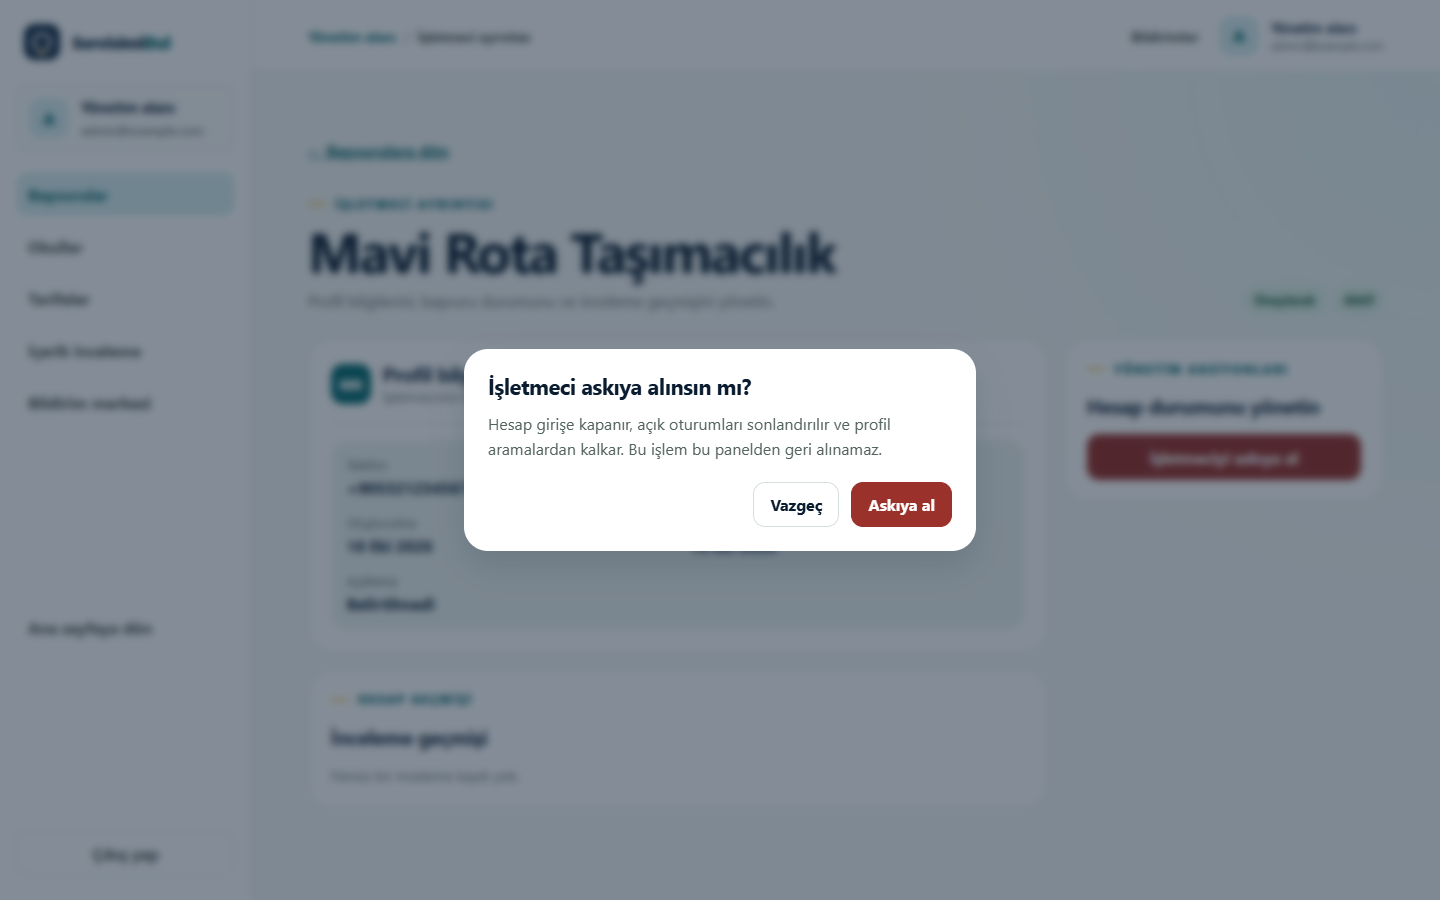
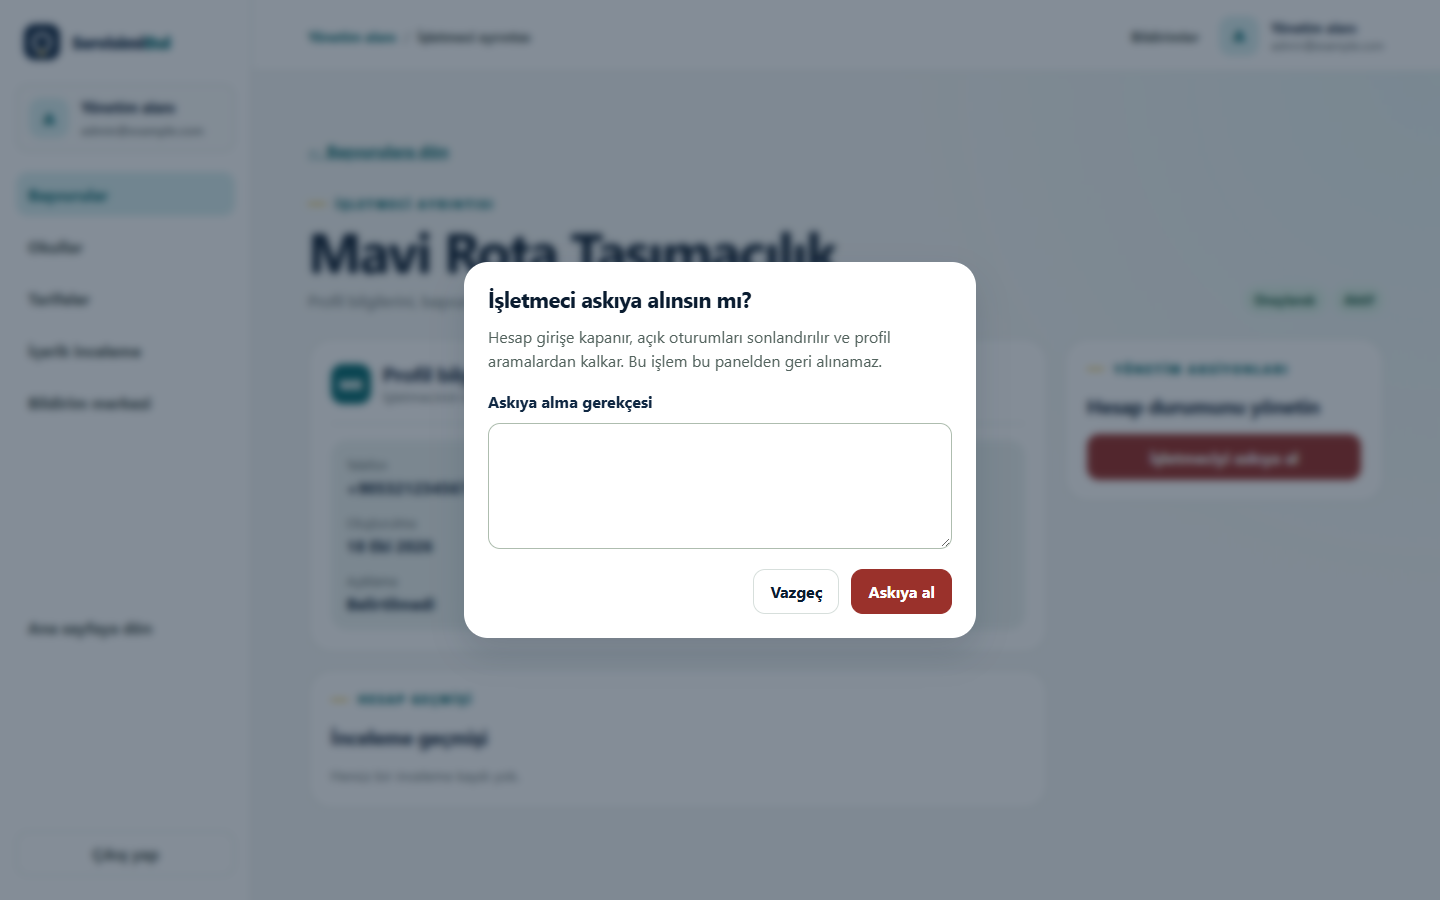
feat(admin): require a stored reason to suspend an operator
Record the reason, administrator, and time as a SUSPENDED review row
(D056, Flyway V17), collect it in the M02 modal, and show it in the review
history. Moderation-driven suspensions store the moderation reason.

Changed region(s): [[0.3125, 0.28, 0.6875, 0.5289], [0.3125, 0.5289, 0.6875, 0.7156]]

diff --git a/servisimibul-frontend/src/features/admin/AdminApplicationsPage.tsx b/servisimibul-frontend/src/features/admin/AdminApplicationsPage.tsx
@@ -43,6 +43,15 @@ const statusTones: Record<
   APPROVED: 'success',
 }
 
+const reviewDecisionLabels: Record<
+  ApplicationDetail['reviewHistory'][number]['decision'],
+  string
+> = {
+  APPROVED: 'Onaylandı',
+  CHANGES_REQUESTED: 'Düzeltme istendi',
+  SUSPENDED: 'Askıya alındı',
+}
+
 const statusFilters: Array<{
   label: string
   value: ApplicationStatus | undefined
@@ -270,6 +279,8 @@ export function AdminApplicationDetailPage() {
   const [attempt, setAttempt] = useState(0)
   const [reason, setReason] = useState('')
   const [reasonError, setReasonError] = useState<string>()
+  const [suspensionReason, setSuspensionReason] = useState('')
+  const [suspensionReasonError, setSuspensionReasonError] = useState<string>()
   const [confirmation, setConfirmation] = useState<
     'approve' | 'revision' | 'suspend'
   >()
@@ -320,8 +331,13 @@ export function AdminApplicationDetailPage() {
       )
       if (sent) setReason('')
     } else if (confirmation === 'suspend') {
+      const trimmedReason = suspensionReason.trim()
+      if (!trimmedReason) {
+        setSuspensionReasonError('Askıya alma gerekçesi zorunludur.')
+        return
+      }
       await runAction(
-        () => suspendOperator(applicationId),
+        () => suspendOperator(applicationId, trimmedReason),
         'İşletmeci askıya alındı.',
       )
     }
@@ -483,11 +499,7 @@ export function AdminApplicationDetailPage() {
                       {review.decision === 'APPROVED' ? '✓' : '!'}
                     </span>
                     <div>
-                      <strong>
-                        {review.decision === 'APPROVED'
-                          ? 'Onaylandı'
-                          : 'Düzeltme istendi'}
-                      </strong>
+                      <strong>{reviewDecisionLabels[review.decision]}</strong>
                       {review.reason && <p>{review.reason}</p>}
                       <small>{formatDate(review.reviewedAt)}</small>
                     </div>
@@ -609,6 +621,21 @@ export function AdminApplicationDetailPage() {
             Hesap girişe kapanır, açık oturumları sonlandırılır ve profil
             aramalardan kalkar. Bu işlem bu panelden geri alınamaz.
           </p>
+          <FormField
+            error={suspensionReasonError}
+            htmlFor="suspension-reason"
+            label="Askıya alma gerekçesi"
+          >
+            <textarea
+              disabled={pending}
+              onChange={(event) => {
+                setSuspensionReason(event.target.value)
+                setSuspensionReasonError(undefined)
+              }}
+              rows={4}
+              value={suspensionReason}
+            />
+          </FormField>
         </AdminConfirmDialog>
       )}
     </section>

diff --git a/servisimibul-frontend/src/features/admin/admin-flow.test.tsx b/servisimibul-frontend/src/features/admin/admin-flow.test.tsx
@@ -129,7 +129,7 @@ describe('admin workspace flows', () => {
 
   it('confirms approval and suspension actions', async () => {
     let approved = false
-    let suspended = false
+    let suspensionBody: unknown
     server.use(
       authHandler('ADMIN'),
       csrfHandler(),
@@ -140,8 +140,8 @@ describe('admin workspace flows', () => {
         approved = true
         return HttpResponse.json(applicationDetail('APPROVED'))
       }),
-      http.post('/api/v1/admin/operators/:id/suspend', () => {
-        suspended = true
+      http.post('/api/v1/admin/operators/:id/suspend', async ({ request }) => {
+        suspensionBody = await request.json()
         return HttpResponse.json(applicationDetail('APPROVED', false))
       }),
     )
@@ -163,16 +163,26 @@ describe('admin workspace flows', () => {
     })
     fireEvent.click(within(dialog).getByRole('button', { name: 'Vazgeç' }))
     expect(screen.queryByRole('dialog')).not.toBeInTheDocument()
-    expect(suspended).toBe(false)
+    expect(suspensionBody).toBeUndefined()
 
     fireEvent.click(
       screen.getByRole('button', { name: 'İşletmeciyi askıya al' }),
     )
     fireEvent.click(screen.getByRole('button', { name: 'Askıya al' }))
     expect(
+      screen.getByRole('textbox', { name: /Askıya alma gerekçesi/ }),
+    ).toHaveAccessibleDescription('Askıya alma gerekçesi zorunludur.')
+    expect(suspensionBody).toBeUndefined()
+
+    fireEvent.change(
+      screen.getByRole('textbox', { name: /Askıya alma gerekçesi/ }),
+      { target: { value: '  Şikayet incelemesi  ' } },
+    )
+    fireEvent.click(screen.getByRole('button', { name: 'Askıya al' }))
+    expect(
       await screen.findByText('İşletmeci askıya alındı.'),
     ).toBeInTheDocument()
-    expect(suspended).toBe(true)
+    expect(suspensionBody).toEqual({ reason: 'Şikayet incelemesi' })
     expect(
       screen.queryByRole('button', { name: 'İşletmeciyi askıya al' }),
     ).not.toBeInTheDocument()
@@ -200,6 +210,10 @@ describe('admin workspace flows', () => {
     renderRoute('/admin/applications/99dd588e-2b72-419e-aa29-28fb97f8ad20')
     fireEvent.click(
       await screen.findByRole('button', { name: 'İşletmeciyi askıya al' }),
+    )
+    fireEvent.change(
+      screen.getByRole('textbox', { name: /Askıya alma gerekçesi/ }),
+      { target: { value: 'Şikayet incelemesi' } },
     )
     fireEvent.click(screen.getByRole('button', { name: 'Askıya al' }))
 

diff --git a/servisimibul-frontend/e2e/ui-fidelity-14-admin-operators.spec.ts b/servisimibul-frontend/e2e/ui-fidelity-14-admin-operators.spec.ts
@@ -58,15 +58,23 @@ test('M02 suspension uses an accessible modal with real consequences', async ({
   await assertAccessibleAndContained(page)
   await capture(page, 'state-M02-suspend-confirmation', 'desktop')
 
+  await dialog.getByRole('button', { name: 'Askıya al', exact: true }).click()
+  await expect(
+    dialog.getByText('Askıya alma gerekçesi zorunludur.'),
+  ).toBeVisible()
+  expect(state.active).toBe(true)
+
   await page.keyboard.press('Escape')
   await expect(dialog).toHaveCount(0)
   await expect(trigger).toBeFocused()
   expect(state.active).toBe(true)
 
   await trigger.click()
+  await dialog.getByLabel('Askıya alma gerekçesi').fill('Şikayet incelemesi')
   await dialog.getByRole('button', { name: 'Askıya al', exact: true }).click()
   await expect(page.getByText('İşletmeci askıya alındı.')).toBeVisible()
   expect(state.active).toBe(false)
+  await expect(page.getByText('Şikayet incelemesi')).toBeVisible()
   await expect(trigger).toHaveCount(0)
   await assertAccessibleAndContained(page)
 })

diff --git a/servisimibul-frontend/src/features/admin/admin-api.ts b/servisimibul-frontend/src/features/admin/admin-api.ts
@@ -8,7 +8,7 @@ import {
 const reviewSchema = z.object({
   id: z.string().uuid(),
   reviewedById: z.string().uuid(),
-  decision: z.enum(['APPROVED', 'CHANGES_REQUESTED']),
+  decision: z.enum(['APPROVED', 'CHANGES_REQUESTED', 'SUSPENDED']),
   reason: z.string().nullable(),
   reviewedAt: z.string(),
 })
@@ -123,11 +123,19 @@ export function requestApplicationRevision(
   })
 }
 
-export function suspendOperator(id: string): Promise<ApplicationDetail> {
-  return applicationAction(id, 'suspend')
+export function suspendOperator(
+  id: string,
+  reason: string,
+): Promise<ApplicationDetail> {
+  return apiRequest(`/admin/operators/${id}/suspend`, {
+    method: 'POST',
+    json: { reason },
+    requiresSession: true,
+    schema: applicationDetailSchema,
+  })
 }
 
-function applicationAction(id: string, action: 'approve' | 'suspend') {
+function applicationAction(id: string, action: 'approve') {
   return apiRequest(`/admin/operators/${id}/${action}`, {
     method: 'POST',
     requiresSession: true,

diff --git a/servisimibul-frontend/e2e/support/mock-api.ts b/servisimibul-frontend/e2e/support/mock-api.ts
@@ -29,7 +29,7 @@ export interface MockApiState {
   reviewHistory: Array<{
     id: string
     reviewedById: string
-    decision: 'APPROVED' | 'CHANGES_REQUESTED'
+    decision: 'APPROVED' | 'CHANGES_REQUESTED' | 'SUSPENDED'
     reason: string | null
     reviewedAt: string
   }>
@@ -269,8 +269,16 @@ export async function installMockApi(page: Page, state: MockApiState) {
       path === `/admin/operators/${operatorId}/suspend` &&
       method === 'POST'
     ) {
-      return requireRole(route, role, 'ADMIN', () => {
+      return requireRole(route, role, 'ADMIN', async () => {
+        const body = await request.postDataJSON()
         state.active = false
+        state.reviewHistory.push({
+          id: 'cccccccc-cccc-4ccc-8ccc-cccccccccccc',
+          reviewedById: adminUserId,
+          decision: 'SUSPENDED',
+          reason: body.reason,
+          reviewedAt: createdAt,
+        })
         return json(route, applicationDetail(state))
       })
     }

diff --git a/servisimibul-frontend/e2e-real/real-full-stack.spec.ts b/servisimibul-frontend/e2e-real/real-full-stack.spec.ts
@@ -1632,11 +1632,15 @@ test('runs the approved MVP journey against the real backend and PostgreSQL', as
         .getByRole('button', { name: 'İşletmeciyi askıya al' })
         .click()
       await adminPage
+        .getByLabel('Askıya alma gerekçesi')
+        .fill('Pilot sözleşme ihlali.')
+      await adminPage
         .getByRole('button', { name: 'Askıya al', exact: true })
         .click()
       await expect(
         adminPage.getByText('İşletmeci askıya alındı.'),
       ).toBeVisible()
+      await expect(adminPage.getByText('Pilot sözleşme ihlali.')).toBeVisible()
 
       await operatorPage.goto('/operator/profile')
       await expect(operatorPage).toHaveURL(

diff --git a/servisimibul-frontend/e2e/mvp-journeys.spec.ts b/servisimibul-frontend/e2e/mvp-journeys.spec.ts
@@ -272,6 +272,9 @@ test('completes all 13 MVP journeys and preserves privacy boundaries', async ({
       .getByRole('button', { name: 'İşletmeciyi askıya al' })
       .click()
     await adminPage
+      .getByLabel('Askıya alma gerekçesi')
+      .fill('Pilot sözleşme ihlali.')
+    await adminPage
       .getByRole('button', { name: 'Askıya al', exact: true })
       .click()
     await expect(adminPage.getByText('İşletmeci askıya alındı.')).toBeVisible()

diff --git a/servisimibul-frontend/src/features/admin/admin-workspace.css b/servisimibul-frontend/src/features/admin/admin-workspace.css
@@ -667,6 +667,14 @@
   margin: 0;
 }
 
+.admin-confirm-body .ui-field {
+  margin-top: 1rem;
+}
+
+.admin-confirm-body textarea {
+  width: 100%;
+}
+
 .admin-confirm-body blockquote {
   margin: 0.75rem 0 0;
   padding: 0.75rem 1rem;

diff --git a/servisimibul-backend/src/test/java/com/servisimibul/backend/identity/OperatorApplicationApiTests.java b/servisimibul-backend/src/test/java/com/servisimibul/backend/identity/OperatorApplicationApiTests.java
@@ -278,11 +278,27 @@ class OperatorApplicationApiTests {
 
         assertThat(sessionRepository.findByPrincipalName(operator.getEmail())).hasSize(1);
 
+        for (String body : new String[] {"{}", "{\"reason\":\"   \"}"}) {
+            mockMvc.perform(post("/api/v1/admin/operators/{id}/suspend", profile.getId())
+                            .with(asUser(admin))
+                            .with(csrf())
+                            .contentType(MediaType.APPLICATION_JSON)
+                            .content(body))
+                    .andExpect(status().isBadRequest());
+        }
+        assertThat(profileRepository.findById(profile.getId()).orElseThrow().isActive()).isTrue();
+        assertThat(sessionRepository.findByPrincipalName(operator.getEmail())).hasSize(1);
+
         mockMvc.perform(post("/api/v1/admin/operators/{id}/suspend", profile.getId())
                         .with(asUser(admin))
-                        .with(csrf()))
+                        .with(csrf())
+                        .contentType(MediaType.APPLICATION_JSON)
+                        .content("{\"reason\":\"  Şikayet incelemesi  \"}"))
                 .andExpect(status().isOk())
-                .andExpect(jsonPath("$.profile.active").value(false));
+                .andExpect(jsonPath("$.profile.active").value(false))
+                .andExpect(jsonPath("$.reviewHistory[0].decision").value("SUSPENDED"))
+                .andExpect(jsonPath("$.reviewHistory[0].reason").value("Şikayet incelemesi"))
+                .andExpect(jsonPath("$.reviewHistory[0].reviewedById").value(admin.getId().toString()));
 
         assertThat(profileRepository.findById(profile.getId()).orElseThrow().isActive()).isFalse();
         assertThat(userRepository.findById(operator.getId()).orElseThrow().isEnabled()).isFalse();

diff --git a/servisimibul-backend/src/main/java/com/servisimibul/backend/operatorapplication/service/OperatorApplicationService.java b/servisimibul-backend/src/main/java/com/servisimibul/backend/operatorapplication/service/OperatorApplicationService.java
@@ -16,6 +16,7 @@ import com.servisimibul.backend.operatorapplication.dto.OperatorApplicationDtos.
 import com.servisimibul.backend.operatorapplication.dto.OperatorApplicationDtos.ProfilePatchRequest;
 import com.servisimibul.backend.operatorapplication.dto.OperatorApplicationDtos.ProfileResponse;
 import com.servisimibul.backend.operatorapplication.dto.OperatorApplicationDtos.ReviewResponse;
+import com.servisimibul.backend.operatorapplication.dto.OperatorApplicationDtos.SuspensionRequest;
 import com.servisimibul.backend.operatorapplication.dto.OperatorApplicationDtos.RevisionRequest;
 import com.servisimibul.backend.operatorapplication.exception.OperatorApplicationApiException;
 import com.servisimibul.backend.operatorapproval.OperatorApprovalPolicy;
@@ -185,9 +186,9 @@ public class OperatorApplicationService {
     }
 
     @Transactional
-    public ApplicationDetailResponse suspend(UUID id) {
+    public ApplicationDetailResponse suspend(UUID id, SuspensionRequest request) {
         OperatorProfile profile = detailedProfileForUpdate(id);
-        reviewerFor(profile);
+        AppUser reviewer = reviewerFor(profile);
         if (!profile.isActive()) {
             throw OperatorApplicationApiException.conflict(
                     "operator_already_suspended",
@@ -197,6 +198,12 @@ public class OperatorApplicationService {
 
         profile.suspend();
         profile.getUser().disable();
+        reviewRepository.saveAndFlush(new OperatorApplicationReview(
+                profile,
+                reviewer,
+                ReviewDecision.SUSPENDED,
+                request.reason().strip()
+        ));
         profileRepository.flush();
         userRepository.flush();
         sessionRevoker.revokeAll(profile.getUser().getId());

diff --git a/servisimibul-backend/src/main/java/com/servisimibul/backend/moderation/service/ModerationService.java b/servisimibul-backend/src/main/java/com/servisimibul/backend/moderation/service/ModerationService.java
@@ -37,6 +37,7 @@ import com.servisimibul.backend.moderation.dto.ModerationDtos.TargetContext;
 import com.servisimibul.backend.moderation.exception.ModerationApiException;
 import com.servisimibul.backend.ratelimit.InMemoryRateLimiter;
 import com.servisimibul.backend.ratelimit.RateLimitRule;
+import com.servisimibul.backend.operatorapplication.dto.OperatorApplicationDtos.SuspensionRequest;
 import com.servisimibul.backend.operatorapplication.service.OperatorApplicationService;
 import com.servisimibul.backend.notification.NotificationDeliveryService;
 import jakarta.persistence.criteria.Predicate;
@@ -234,7 +235,10 @@ public class ModerationService {
                 DemandServiceResponse response = responseRepository
                         .findForUpdateById(moderationCase.getTargetId())
                         .orElseThrow(() -> targetNotFound("service response"));
-                operatorApplicationService.suspend(response.getOperator().getId());
+                operatorApplicationService.suspend(
+                        response.getOperator().getId(),
+                        new SuspensionRequest(reason)
+                );
                 moderationCase.resolve(administrator, reason, now);
             }
             case CLOSE_DEMAND -> {

diff --git a/servisimibul-backend/src/test/java/com/servisimibul/backend/ServisimibulBackendApplicationTests.java b/servisimibul-backend/src/test/java/com/servisimibul/backend/ServisimibulBackendApplicationTests.java
@@ -90,7 +90,7 @@ class ServisimibulBackendApplicationTests {
     @Test
     @Transactional
     void migrationCreatesUsableProtectedGeographySchema() {
-        assertThat(flyway.info().current().getVersion().getVersion()).isEqualTo("16");
+        assertThat(flyway.info().current().getVersion().getVersion()).isEqualTo("17");
         assertThat(flyway.migrate().migrationsExecuted).isZero();
         assertThat(jdbcTemplate.queryForObject("select current_user", String.class))
                 .isEqualTo("servisimibul_app");
@@ -385,7 +385,7 @@ class ServisimibulBackendApplicationTests {
         assertThat(migrations.stream()
                 .map(migration -> migration.getVersion().getVersion())
                 .toList()).containsExactly(
-                        "1", "2", "3", "4", "5", "6", "7", "8", "9", "10", "11", "12", "13", "14", "15", "16"
+                        "1", "2", "3", "4", "5", "6", "7", "8", "9", "10", "11", "12", "13", "14", "15", "16", "17"
                 );
         assertThat(migrations).allMatch(migration -> migration.getState() == MigrationState.SUCCESS);
         assertThat(flyway.migrate().migrationsExecuted).isZero();
